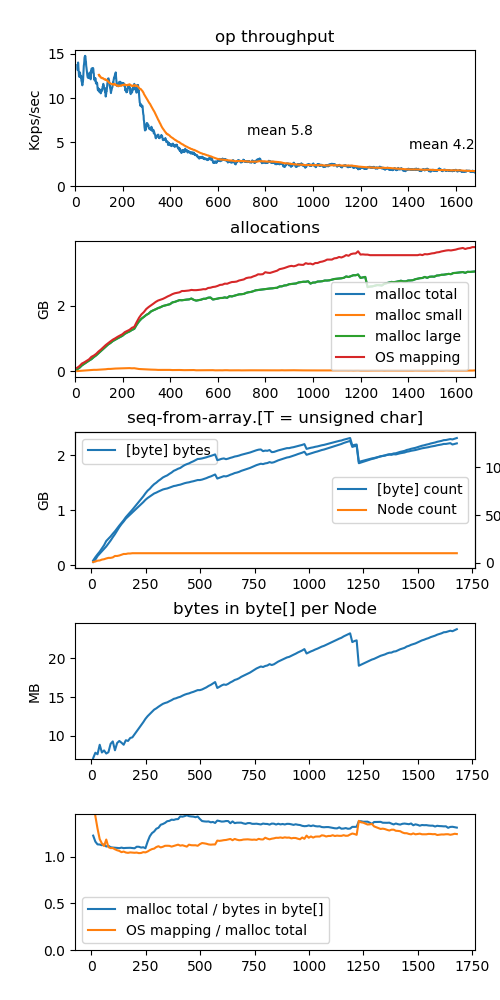
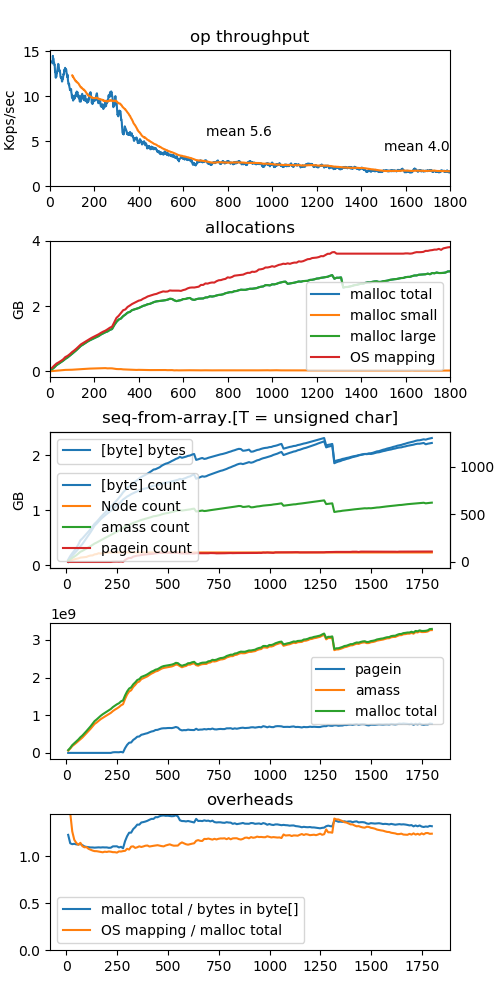
figured out why amass didn't work

diff --git a/malloc-exp/plot-timeseries.py b/malloc-exp/plot-timeseries.py
@@ -12,52 +12,62 @@ class ARow:
         self.total_byte = int(total_byte)
         self.open_byte = int(open_byte)
 
+field_width = 14+1
+arow_width = field_width*4 - 1
+
+def parse_arow(s):
+    assert(len(s) == arow_width)
+    total_count = s[:field_width]
+    open_count = s[field_width:field_width*2]
+    total_byte = s[field_width*2:field_width*3]
+    open_byte = s[field_width*3:field_width*4]
+    return ARow(total_count, open_count, total_byte, open_byte)
+
+def match_arow_line(token, line):
+    if not line.startswith(token + " "):
+        return None
+    arow = parse_arow(line[len(token)+1:len(token)+1+arow_width])
+    label = line[len(token)+1+arow_width+1:]
+    return (arow, label)
+
 def parse(filename):
     t = 0
     os_map_total = {}
     os_map_heap = {}
-    malloc_total = {}
-    allocations = {"small": {} , "large": {}, "total": {}}
+#    allocations = {"small": {} , "large": {}, "total": {}}
+    microscopes = {}
     first_op_completed_t = None
     ops_completed = {}
     scopes = {}
     for line in open(filename, "r").readlines():
+        line = line.strip()
         fields = line.split()
         if line.startswith("os-map-total"):
             os_map_total[t] = int(fields[1])
             os_map_heap[t] = int(fields[3])
-            malloc_total[t] = int(fields[5])
             t += 1
-        if line.startswith("ma-coarse-histogram") and len(fields)>5:
-            size = fields[1]
-            allocations[size][t] = int(fields[5])
-        if line.startswith("ma-total"):
-            allocations["total"][t] = int(fields[4])
         if line.startswith("veribetrkv [op] sync"):
             if first_op_completed_t == None:
                 first_op_completed_t = t - 2
             ops_completed[t] = int(fields[4])
-        if line.startswith("ma-scope") and len(line)>53:
-            base = 9
-            width = 12+1
-            #width = 14+1
-            labeloff = base+width*4
-            label = line[base+width*4:].strip()
-            #print("line:", line)
-            #print("line[%d]: %s" %( labeloff, line[labeloff]))
-            #print("label:", label)
-            if label!="label" and not label.startswith("----"):
-                total_count = line[base:base+width]
-                open_count = line[base+width:base+width*2]
-                total_byte = line[base+width*2:base+width*3]
-                open_byte = line[base+width*3:base+width*4]
-                arow = ARow(total_count, open_count, total_byte, open_byte)
-                if label not in scopes:
-                    scopes[label] = {}
-                scopes[label][t] = arow
+
+        mo = match_arow_line("ma-scope", line)
+        if mo:
+            arow,label = mo
+            if label not in scopes:
+                scopes[label] = {}
+            scopes[label][t] = arow
+
+        mo = match_arow_line("ma-microscope", line)
+        if mo:
+            arow,label = mo
+            label = label.split()[-1]   # suffix word. Sorry.
+            if label not in microscopes:
+                microscopes[label] = {}
+            microscopes[label][t] = arow
 
     fig, axes = plt.subplots(5, 1, figsize=(5,10))
-    plt.subplots_adjust(left=0.15, right=0.95, hspace=0.4, top=0.95, bottom=0.05);
+    plt.subplots_adjust(left=0.10, right=0.90, hspace=0.4, top=0.95, bottom=0.05);
 
     t_end = max(os_map_total.keys())
 
@@ -84,12 +94,12 @@ def parse(filename):
 
     MB = float(1<<20)
     GB = float(1<<30)
-    xs = allocations["total"].keys()
-    line, = axes[1].plot(xs, [allocations["total"][t]/GB for t in xs])
+    xs = microscopes["total"].keys()
+    line, = axes[1].plot(xs, [microscopes["total"][t].open_byte/GB for t in xs])
     line.set_label("malloc total")
-    line, = axes[1].plot(xs, [allocations["small"][t]/GB for t in xs])
+    line, = axes[1].plot(xs, [microscopes["coarse-small"][t].open_byte/GB for t in xs])
     line.set_label("malloc small")
-    line, = axes[1].plot(xs, [(allocations["small"][t] + allocations["large"][t])/GB for t in xs])
+    line, = axes[1].plot(xs, [(microscopes["coarse-small"][t].open_byte + microscopes["coarse-large"][t].open_byte)/GB for t in xs])
     line.set_label("malloc large")
     xs = [t for t in xs if t in os_map_total]
     line, = axes[1].plot(xs, [os_map_total[t]/GB for t in xs])
@@ -102,8 +112,8 @@ def parse(filename):
     label_bytearys = "seq-from-array.[T = unsigned char]"
     focus_bytearys = scopes[label_bytearys]
     xs_bytearys = [t for t in focus_bytearys]
-    ys = [focus_bytearys[t].open_byte/GB for t in xs_bytearys]
-    line, = axes[2].plot(xs, ys)
+    ys_bytearys = [focus_bytearys[t].open_byte/GB for t in xs_bytearys]
+    line, = axes[2].plot(xs_bytearys, ys_bytearys)
     line.set_label("[byte] bytes");
     axes[2].set_title(label_bytearys)
     axes[2].set_ylabel("GB")
@@ -111,7 +121,7 @@ def parse(filename):
 
     a2twin = axes[2].twinx()
     ys_bytearys = [focus_bytearys[t].open_count for t in xs_bytearys]
-    line, = a2twin.plot(xs, ys_bytearys)
+    line, = a2twin.plot(xs_bytearys, ys_bytearys)
     line.set_label("[byte] count");
     a2twin.set_ylabel("count")
 
@@ -119,27 +129,49 @@ def parse(filename):
     focus_nodes = scopes[label_nodes]
     xs_nodes = [t for t in focus_nodes]
     ys_nodes = [focus_nodes[t].open_count for t in xs_nodes]
-    line, = a2twin.plot(xs, ys_nodes)
+    line, = a2twin.plot(xs_nodes, ys_nodes)
     line.set_label("Node count")
-    a2twin.legend(loc="right")
+    line, = a2twin.plot(xs_nodes, [microscopes["sfaLarge"][t].open_count for t in xs])
+    line.set_label("amass count")
+    line, = a2twin.plot(xs_nodes, [microscopes["esLarge"][t].open_count for t in xs])
+    line.set_label("pagein count")
+    a2twin.legend(loc="lower left")
 
-    xs_ratio = [t for t in xs_bytearys if t in xs_nodes]
-    ys_ratio = [focus_bytearys[t].open_byte/float(focus_nodes[t].open_count)/MB for t in xs_ratio]
-    axes[3].plot(xs_ratio, ys_ratio)
-    axes[3].set_title("bytes in byte[] per Node")
-    axes[3].set_ylabel("MB")
-    axes[3].set_ylim(bottom = 7)
+#    xs_ratio = [t for t in xs_bytearys if t in xs_nodes]
+#    ys_ratio = [focus_bytearys[t].open_byte/float(focus_nodes[t].open_count)/MB for t in xs_ratio]
+#    print("fooi", len(ys_ratio))
+#    axes[3].plot(xs_ratio, ys_ratio)
+#    axes[3].set_title("bytes in byte[] per Node")
+#    axes[3].set_ylabel("MB")
+#    axes[3].set_ylim(bottom = 0)
+    # stack chart of...
+    stack = [
+              (microscopes["esLarge"], "pagein"),
+              (microscopes["sfaLarge"], "amass"),
+            ]
+    xs = [t for t in stack[0][0]]
+    prev = [0 for t in xs]
+    for i in range(len(stack)):
+        (item,label) = stack[i]
+        ys = [item[xs[i]].open_byte + prev[i] for i in range(len(xs))]
+        line, = axes[3].plot(xs, ys)
+        line.set_label(label)
+        prev = ys
+    line, = axes[3].plot(xs, [microscopes["total"][t].open_byte for t in xs])
+    line.set_label("malloc total")
+    axes[3].legend()
 
     xs_byteToMalloc = [t for t in xs_bytearys]
-    ys_byteToMalloc = [ allocations["total"][t] / focus_bytearys[t].open_byte for t in xs_byteToMalloc]
+    ys_byteToMalloc = [ microscopes["total"][t].open_byte / focus_bytearys[t].open_byte for t in xs_byteToMalloc]
     line, = axes[4].plot(xs_byteToMalloc, ys_byteToMalloc)
     line.set_label("malloc total / bytes in byte[]")
     axes[4].set_ylim(bottom = 0)
-    xs_mallocToOs = allocations["total"].keys()
-    ys_mallocToOs = [os_map_total[t] / allocations["total"][t] for t in xs_mallocToOs]
+    xs_mallocToOs = microscopes["total"].keys()
+    ys_mallocToOs = [os_map_total[t] / microscopes["total"][t].open_byte for t in xs_mallocToOs]
     line, = axes[4].plot(xs_mallocToOs, ys_mallocToOs)
     line.set_label("OS mapping / malloc total")
     axes[4].legend()
+    axes[4].set_title("overheads")
 
     figname = "%s-timeseries.png" % filename
     plt.savefig(figname)

diff --git a/framework/MallocAccounting.cpp b/framework/MallocAccounting.cpp
@@ -112,7 +112,7 @@ namespace std {
 typedef struct {
   uint64_t magic; // identify my own mallocs
   size_t allocation_size;
-  const Label* label;
+  Label label;
 } AccountingHeader;
 
 struct ARow {
@@ -121,7 +121,7 @@ struct ARow {
   uint64_t open_count;
   uint64_t total_bytes;
   uint64_t open_bytes;
-  ARow(const Label &label)
+  ARow(const Label& label)
     : label(label),
       total_count(0),
       open_count(0),
@@ -226,8 +226,8 @@ void ScopeMap::display() {
   return;
 #endif // MALLOC_ACCOUNTING_ENABLE_SCOPES
   char buf[AROW_BUFSIZE];
-  printf("ma-scope %s\n", ARow::display_header(buf, sizeof(buf)));
-  printf("ma-scope --------------------------------------------  ----------\n");
+  printf("ma-hdr   %s\n", ARow::display_header(buf, sizeof(buf)));
+  printf("ma-hdr   ----------------------------------------------------  ----------\n");
   std::vector<ARow> rows;
   for (auto it = umap.begin(); it != umap.end(); it++)  {
     rows.push_back(it->second);
@@ -257,12 +257,18 @@ struct Microscope {
 static const char* match_any = "any";
 
 Microscope microscopes[] = {
-  {0, (1<<20)-1, ARow(Label(match_any, "")), "<1MB"},
-  {1<<20, ULLONG_MAX, ARow(Label(match_any, "")), ">=1MB"},
+  // row 0 is reserved for total
+  {0, ULLONG_MAX, ARow(Label(match_any, "")), "total"},
+  {0, (1<<20)-1, ARow(Label(match_any, "")), "coarse-small"},
+  {1<<20, ULLONG_MAX, ARow(Label(match_any, "")), "coarse-large"},
   {0, 511, ARow(Label("[T = unsigned char]", "explicit-seq")), "es511"},
   {512, 512, ARow(Label("[T = unsigned char]", "explicit-seq")), "es512"},
   {513, (1<<20)-1, ARow(Label("[T = unsigned char]", "explicit-seq")), "esMid"},
   {1<<20, ULLONG_MAX, ARow(Label("[T = unsigned char]", "explicit-seq")), "esLarge"},
+  {0, 511, ARow(Label("[T = unsigned char]", "seq-from-array")), "sfa511"},
+  {512, 512, ARow(Label("[T = unsigned char]", "seq-from-array")), "sfa512"},
+  {513, (1<<20)-1, ARow(Label("[T = unsigned char]", "seq-from-array")), "sfaMid"},
+  {1<<20, ULLONG_MAX, ARow(Label("[T = unsigned char]", "seq-from-array")), "sfaLarge"},
 };
 
 class MicroscopeBench {
@@ -361,58 +367,18 @@ void FineHistogram::display() {
 }
 
 //////////////////////////////////////////////////////////////////////////////
-// Coarse-grained (cheap!) histogram
-
-class CoarseHistogram {
-private:
-  size_t threshold = 1<<20;
-  ARow small = ARow(Label("small", ""));
-  ARow large = ARow(Label("large", ""));
-
-public:
-  inline void record_allocate(size_t size) {
-    if (size<threshold) {
-      small.record_allocate(size);
-    } else {
-      large.record_allocate(size);
-    }
-  }
-
-  inline void record_free(size_t size) {
-    if (size<threshold) {
-      small.record_free(size);
-    } else {
-      large.record_free(size);
-    }
-  }
-
-  void display();
-};
-
-void CoarseHistogram::display() {
-  char buf[AROW_BUFSIZE];
-  printf("ma-coarse-histogram threshold %ld\n", threshold);
-  printf("ma-coarse-histogram small %s\n", small.display(buf, sizeof(buf)));
-  printf("ma-coarse-histogram large %s\n", large.display(buf, sizeof(buf)));
-}
-
-//////////////////////////////////////////////////////////////////////////////
 // table of interesting metrics.
 
 class ATable {
 public:
   // These different modules are activated/deactivated with #defines in .h
-  ARow total = ARow(Label("total", ""));
   ScopeMap scope_map;
   FineHistogram fine_histogram;
-  CoarseHistogram coarse_histogram;
   MicroscopeBench microscope_bench;
 
   inline const Label* record_allocate(size_t size) {
     const Label* label = scope_map.get_active_label();
-    total.record_allocate(size);
     fine_histogram.record_allocate(size);
-    coarse_histogram.record_allocate(size);
     scope_map.record_allocate(size);
     microscope_bench.record_allocate(*label, size);
     return label; // tuck into allocation header so we know it at free time
@@ -420,20 +386,16 @@ public:
 
   // scope_row is tucked into allocation to avoid a hash lookup at free time
   inline void record_free(size_t size, const Label& label) {
-    total.record_free(size);
     fine_histogram.record_free(size);
-    coarse_histogram.record_free(size);
     scope_map.record_free(label, size);
     microscope_bench.record_free(label, size);
   }
 
-  void display_total();
+  size_t total_open_bytes() {
+    // row 0 is reserved for total
+    return microscopes[0].arow.open_bytes;
+  }
 };
-
-void ATable::display_total() {
-  char buf[AROW_BUFSIZE];
-  printf("ma-total %s\n", total.display(buf, sizeof(buf)));
-}
 
 ATable atable;
 
@@ -464,7 +426,7 @@ void *malloc_hook(size_t size, const void *caller) {
   result = (char*) underlying + sizeof(AccountingHeader);
   ar->magic = ACCOUNTING_MAGIC;
   ar->allocation_size = size;
-  ar->label = atable.record_allocate(size);
+  ar->label = *atable.record_allocate(size);
 
   install_hooks();
 
@@ -499,7 +461,7 @@ void free_hook(void* ptr, const void *caller) {
 //    printf("free_hook sees free %p size %lx from %p\n", ptr, ar->allocation_size, caller);
 
     size = ar->allocation_size;
-    atable.record_free(size, *ar->label);
+    atable.record_free(size, ar->label);
     use_munmap = MMAP_POOL_ENABLE && (size >= MMAP_POOL_SIZE_THRESH);
   }
 
@@ -537,9 +499,7 @@ void malloc_accounting_display(const char* label) {
   printf("ma-display-header %s\n", label);
   atable.scope_map.display();
   atable.fine_histogram.display();
-  atable.coarse_histogram.display();
   atable.microscope_bench.display();
-  atable.display_total();
   // dump_proc_self_maps();
   // atable.display_histogram();
 }
@@ -565,7 +525,7 @@ void malloc_accounting_status() {
   printf("os-map-total %8ld os-map-heap %8ld malloc-accounting-total %8ld\n",
     all_maps,
     heap,
-    atable.total.open_bytes);
+    atable.total_open_bytes());
 }
 
 #if MALLOC_ACCOUNTING_ENABLE_SCOPES
